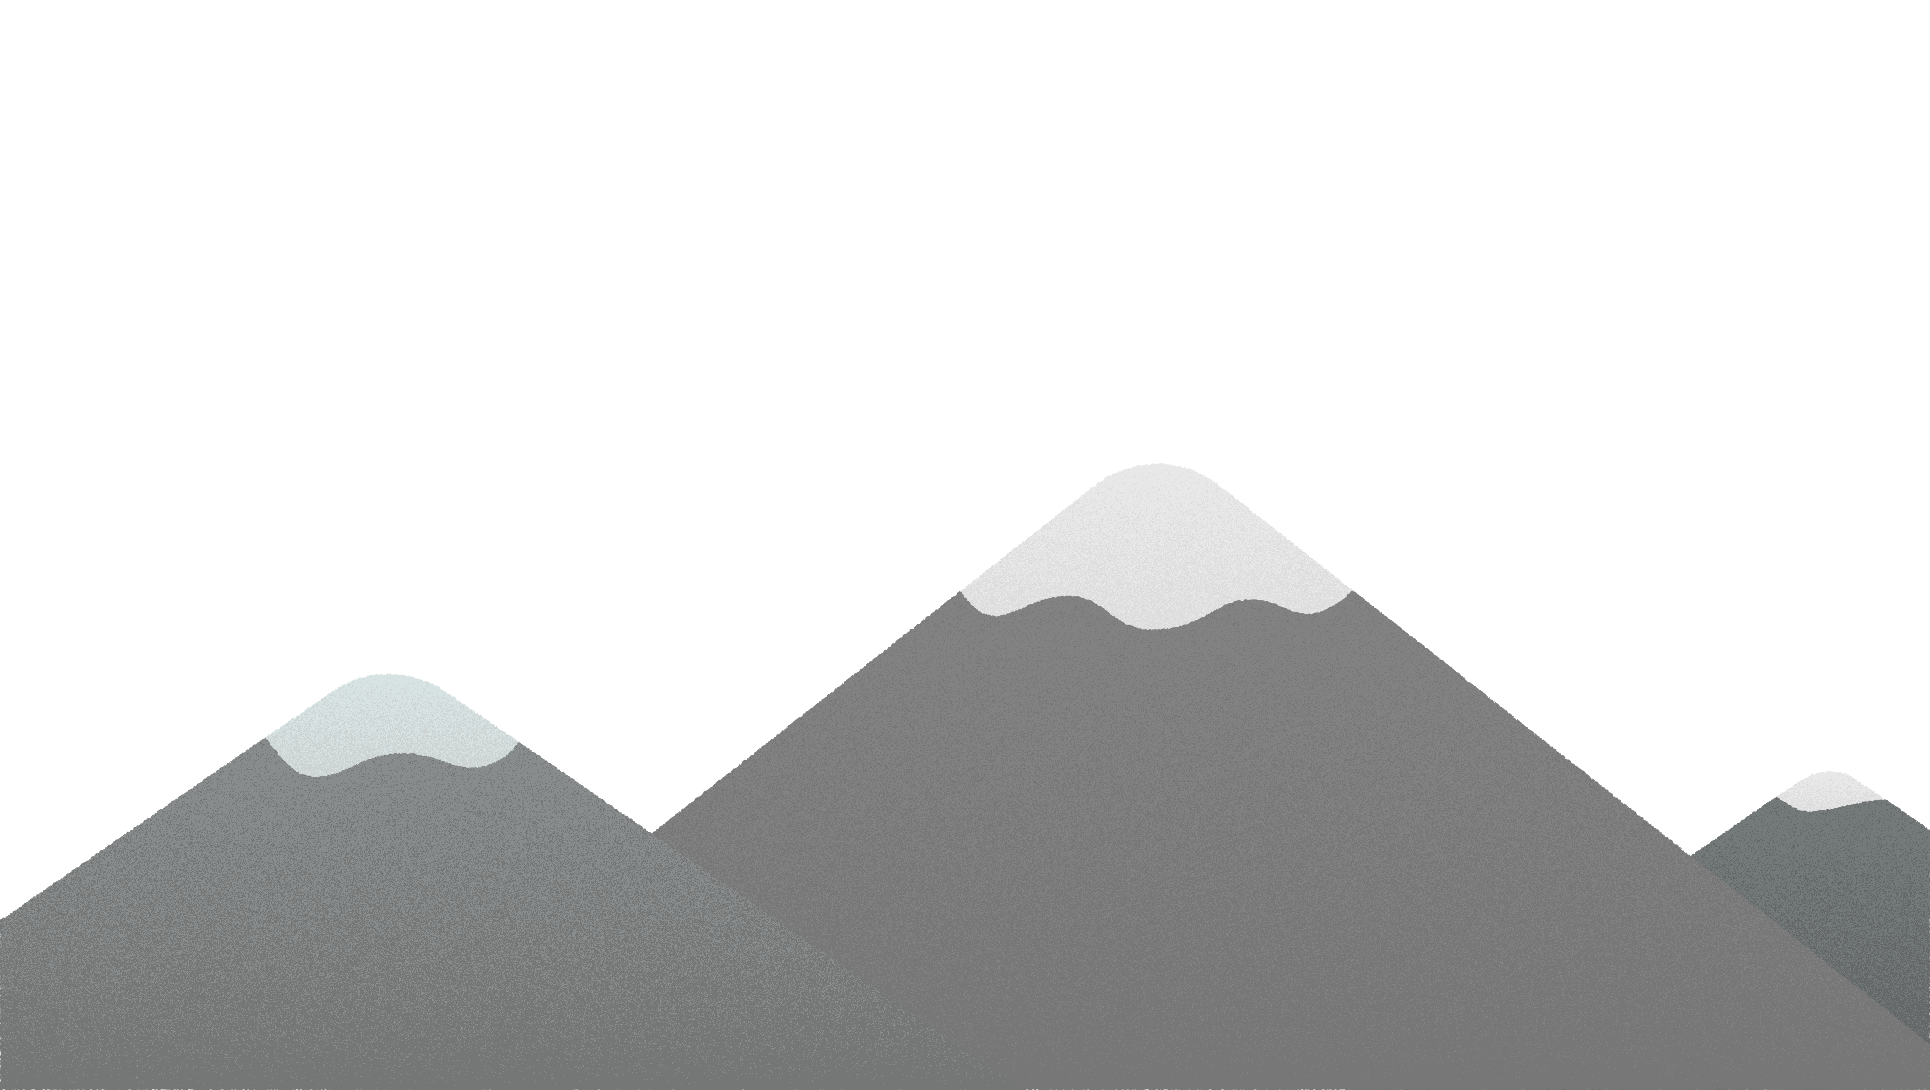
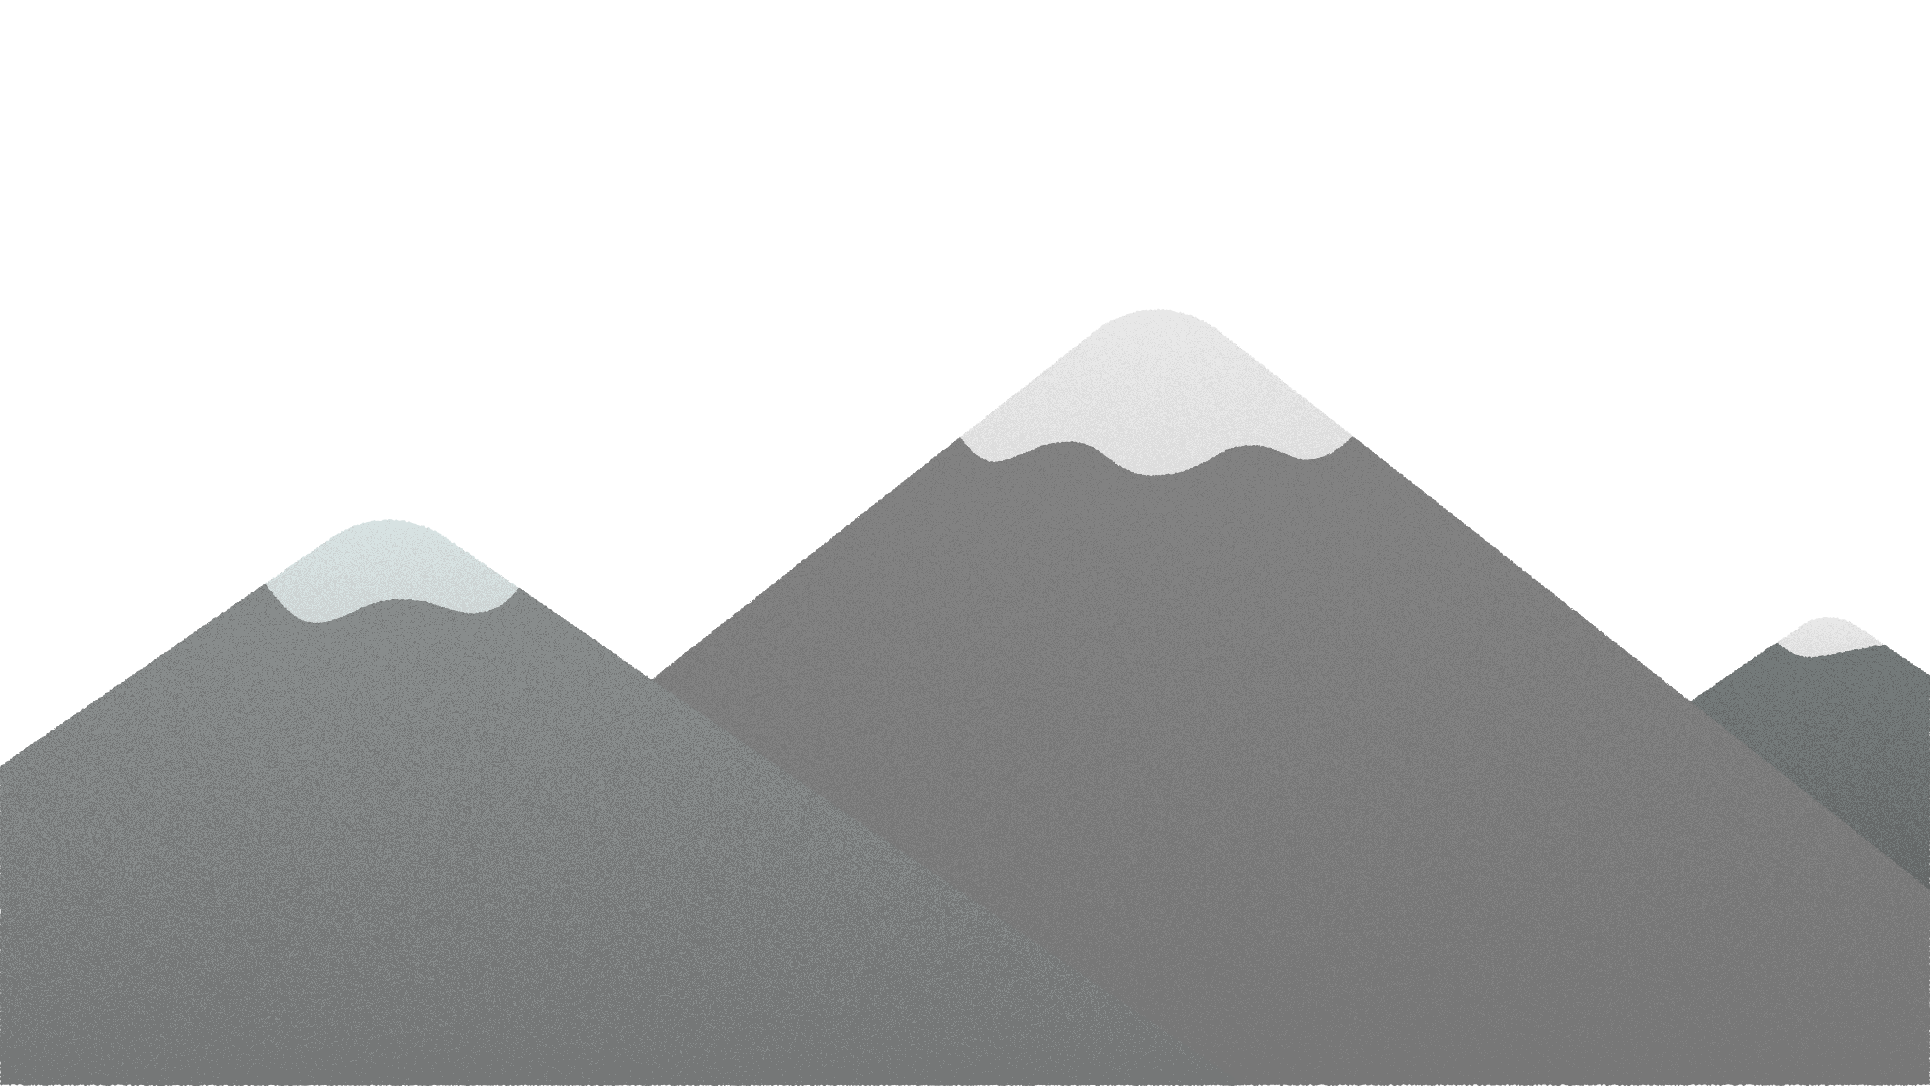
Mark5

Changed region(s): [[0.0, 0.3119, 1.0, 0.8422], [0.0, 0.967, 1.0, 1.0], [0.9326, 0.7798, 1.0, 0.9358]]

diff --git a/css/style.css b/css/style.css
@@ -182,19 +182,22 @@ p{
 
 .mountains_section{
 	background:url("../img/mountainair.png");
-	overflow:hidden;
+	height:120vh
 }
 
 .mountains{
 	background:url("../img/mountains.png");
-	background-position: bottom;
+	background-position: center bottom -10vh;
+	height:120vh;
+	background-repeat: no-repeat;
 }
 
-.mountain_air{
+.clouds{
 	background:url("../img/clouds.png");
 }
 
 .walkers{
 	background:url("../img/walkers.png");
-	background-position: bottom;
+	background-position: top;
+	margin-top: -500px;
 }

diff --git a/index.html b/index.html
@@ -41,6 +41,10 @@
       </article>
     </section>
     <section class="mountains_section relative">
+      <div class="clouds absolute"></div>
+      <div class="mountains absolute"></div>
+    </section>
+    <section class="walkers relative">
 
     </section>
   </body>
